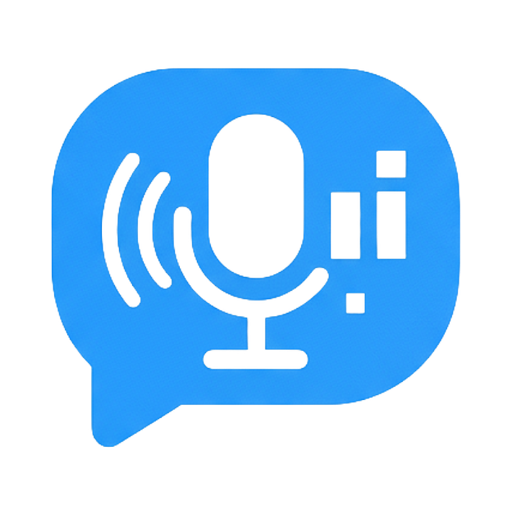
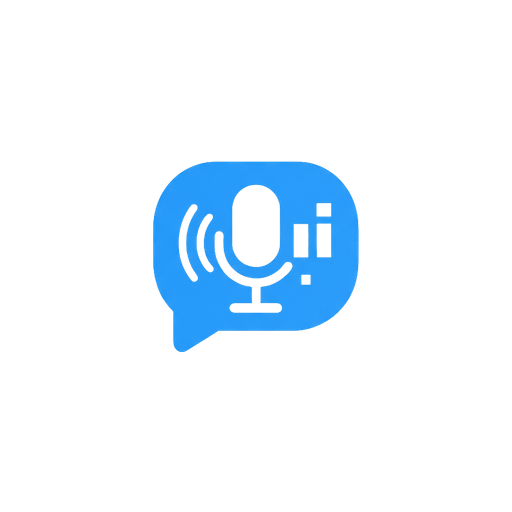
Aumentar padding dos ícones PWA para 30% e forçar orientação paisagem

diff --git a/src/App.css b/src/App.css
@@ -5,45 +5,6 @@
   box-sizing: border-box;
 }
 
-/* ==================== ORIENTAÇÃO RESPONSIVA ==================== */
-/* Celulares: orientação vertical (portrait) */
-@media (max-width: 767px) and (orientation: landscape) {
-  body::before {
-    content: "Por favor, gire seu dispositivo para a posição vertical";
-    position: fixed;
-    top: 0;
-    left: 0;
-    right: 0;
-    bottom: 0;
-    background: #1a9bff;
-    color: white;
-    display: flex;
-    align-items: center;
-    justify-content: center;
-    z-index: 999999;
-    font-size: 1.2rem;
-    text-align: center;
-    padding: 2rem;
-  }
-}
-
-/* Tablets e maiores: orientação horizontal (landscape) preferencial */
-@media (min-width: 768px) and (orientation: portrait) {
-  body::after {
-    content: "Para melhor experiência, gire seu dispositivo para a posição horizontal";
-    position: fixed;
-    bottom: 0;
-    left: 0;
-    right: 0;
-    background: #6C757D;
-    color: white;
-    padding: 0.5rem;
-    z-index: 999998;
-    font-size: 0.875rem;
-    text-align: center;
-  }
-}
-
 body {
   font-family: 'Nunito', -apple-system, BlinkMacSystemFont, 'Segoe UI', Roboto, Oxygen, Ubuntu, Cantarell, sans-serif;
   background: #ffffff;

diff --git a/index.html b/index.html
@@ -5,6 +5,10 @@
     <link rel="icon" type="image/png" href="/logo.png" />
     <meta name="viewport" content="width=device-width, initial-scale=1.0, maximum-scale=5.0, user-scalable=yes" />
     
+    <!-- Forçar orientação paisagem -->
+    <meta name="screen-orientation" content="landscape" />
+    <meta name="x5-orientation" content="landscape" />
+    
     <!-- PWA Meta Tags -->
   <meta name="theme-color" content="#6C757D" />
     <meta name="description" content="Sistema de pesquisa de campo porta a porta que funciona offline" />

diff --git a/generate-icons.js b/generate-icons.js
@@ -20,8 +20,8 @@ Promise.all(
     const outputFile = path.join(outputDir, `pwa-${size}x${size}.png`);
     
     try {
-      // Adiciona padding de 10% do tamanho
-      const padding = Math.floor(size * 0.1);
+      // Adiciona padding de 30% do tamanho
+      const padding = Math.floor(size * 0.3);
       const iconSize = size - (padding * 2);
       
       await sharp(inputFile)

diff --git a/vite.config.ts b/vite.config.ts
@@ -15,7 +15,7 @@ export default defineConfig({
   theme_color: '#6C757D',
         background_color: '#ffffff',
         display: 'standalone',
-        orientation: 'any',
+        orientation: 'landscape',
         scope: '/',
         start_url: '/',
         icons: [
